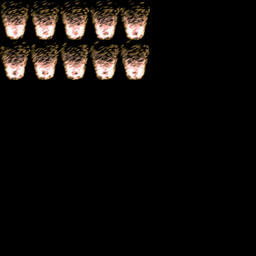
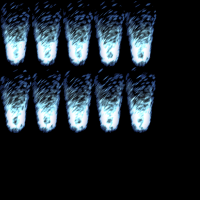
arreglo en la visual de meditar

diff --git a/client/playable_character.cpp b/client/playable_character.cpp
@@ -199,7 +199,8 @@ void PlayableCharacter::render(SDL_Renderer* renderer, int x_rel, int y_rel) {
     // Si esta meditando renderizamos la meditación
     if (zen_mode)
       texture_manager.get_texture(ID_MEDITATION)
-          .render(renderer, &meditating_frame, x - x_rel, y - y_rel);
+          .render(renderer, &meditating_frame, x - x_rel,
+                  y - height - y_rel);
   }
 }
 
@@ -297,8 +298,8 @@ void PlayableCharacter::update_equipment(bool ghost_mod, bool meditating,
     // Seteamos si el personaje esta meditando
     if (meditating && !zen_mode) {
       zen_mode = meditating;
-      meditating_animation = Animation(ZEN_WIDTH, GHOST_HEIGHT, ID_MEDITATION);
-      meditating_frame = {0, 0, ZEN_WIDTH, GHOST_HEIGHT};
+      meditating_animation = Animation(ZEN_WIDTH, ZEN_HEIGHT, ID_MEDITATION);
+      meditating_frame = {0, 0, ZEN_WIDTH, ZEN_HEIGHT};
     }
 
     // Chequeamos si dejo de meditar
@@ -306,9 +307,9 @@ void PlayableCharacter::update_equipment(bool ghost_mod, bool meditating,
       zen_mode = meditating;
 
     // Chequeamos si sigue meditando
-    else if (zen_mode && meditating)
+    else if (zen_mode && meditating) 
       meditating_frame = meditating_animation.get_next_clip();
-
+    
     // Chequeamos si cambio el caso
     if (new_helmet == ID_NULL && helmet != ID_NULL)
       unequip_item(HELMET);

diff --git a/client/animation.cpp b/client/animation.cpp
@@ -65,7 +65,7 @@ SDL_Rect Animation::get_next_clip() {
                          character_height * current_clip[CLIP_DOWN],
                          character_width, character_height};
   // mientras sea menor a la cantidad de columnas le sumo a x
-  if (current_clip[CLIP_UP] < clips_up_down) {
+  if (current_clip[CLIP_UP] < clips_up_down - 1) {
     current_clip[CLIP_UP]++;
   } else {
     current_clip[CLIP_UP] = 0;

diff --git a/client/playable_character.h b/client/playable_character.h
@@ -7,8 +7,8 @@
 
 #define GHOST_WIDTH 29
 #define GHOST_HEIGHT 32
-#define ZEN_WIDTH 30
-#define ZEN_HEIGHT 40
+#define ZEN_WIDTH 31
+#define ZEN_HEIGHT 68
 
 class PlayableCharacter : public Character {
  protected:
